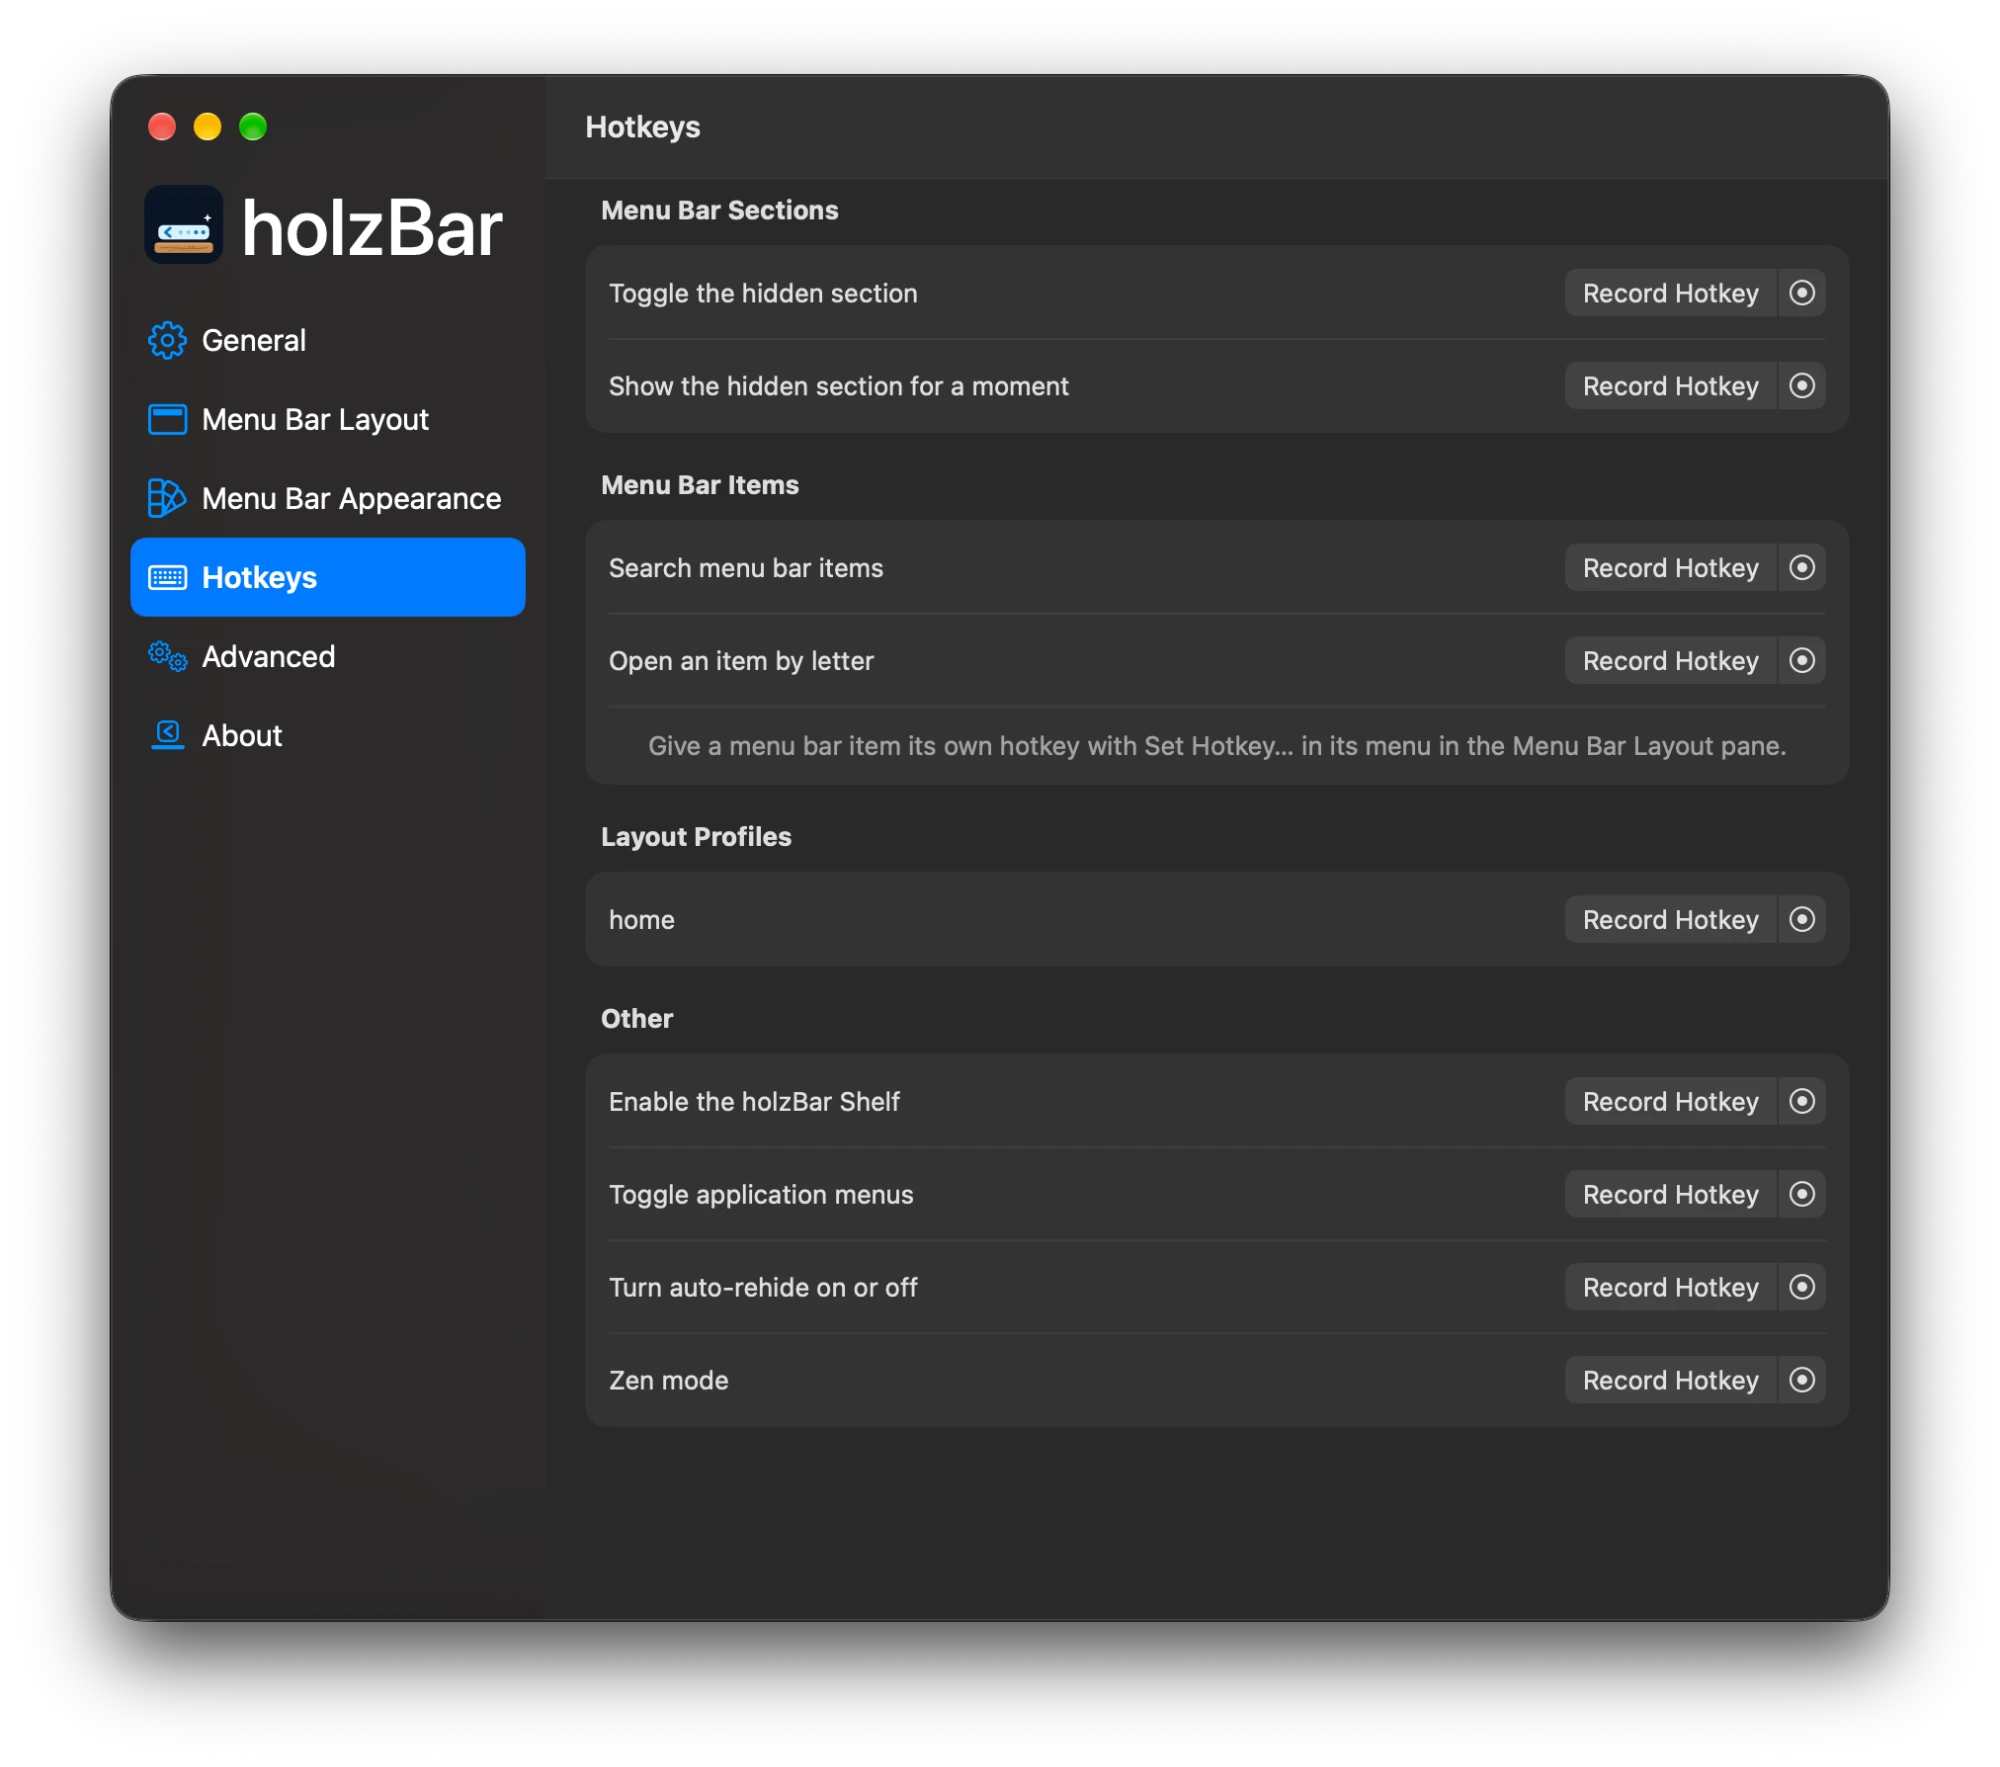
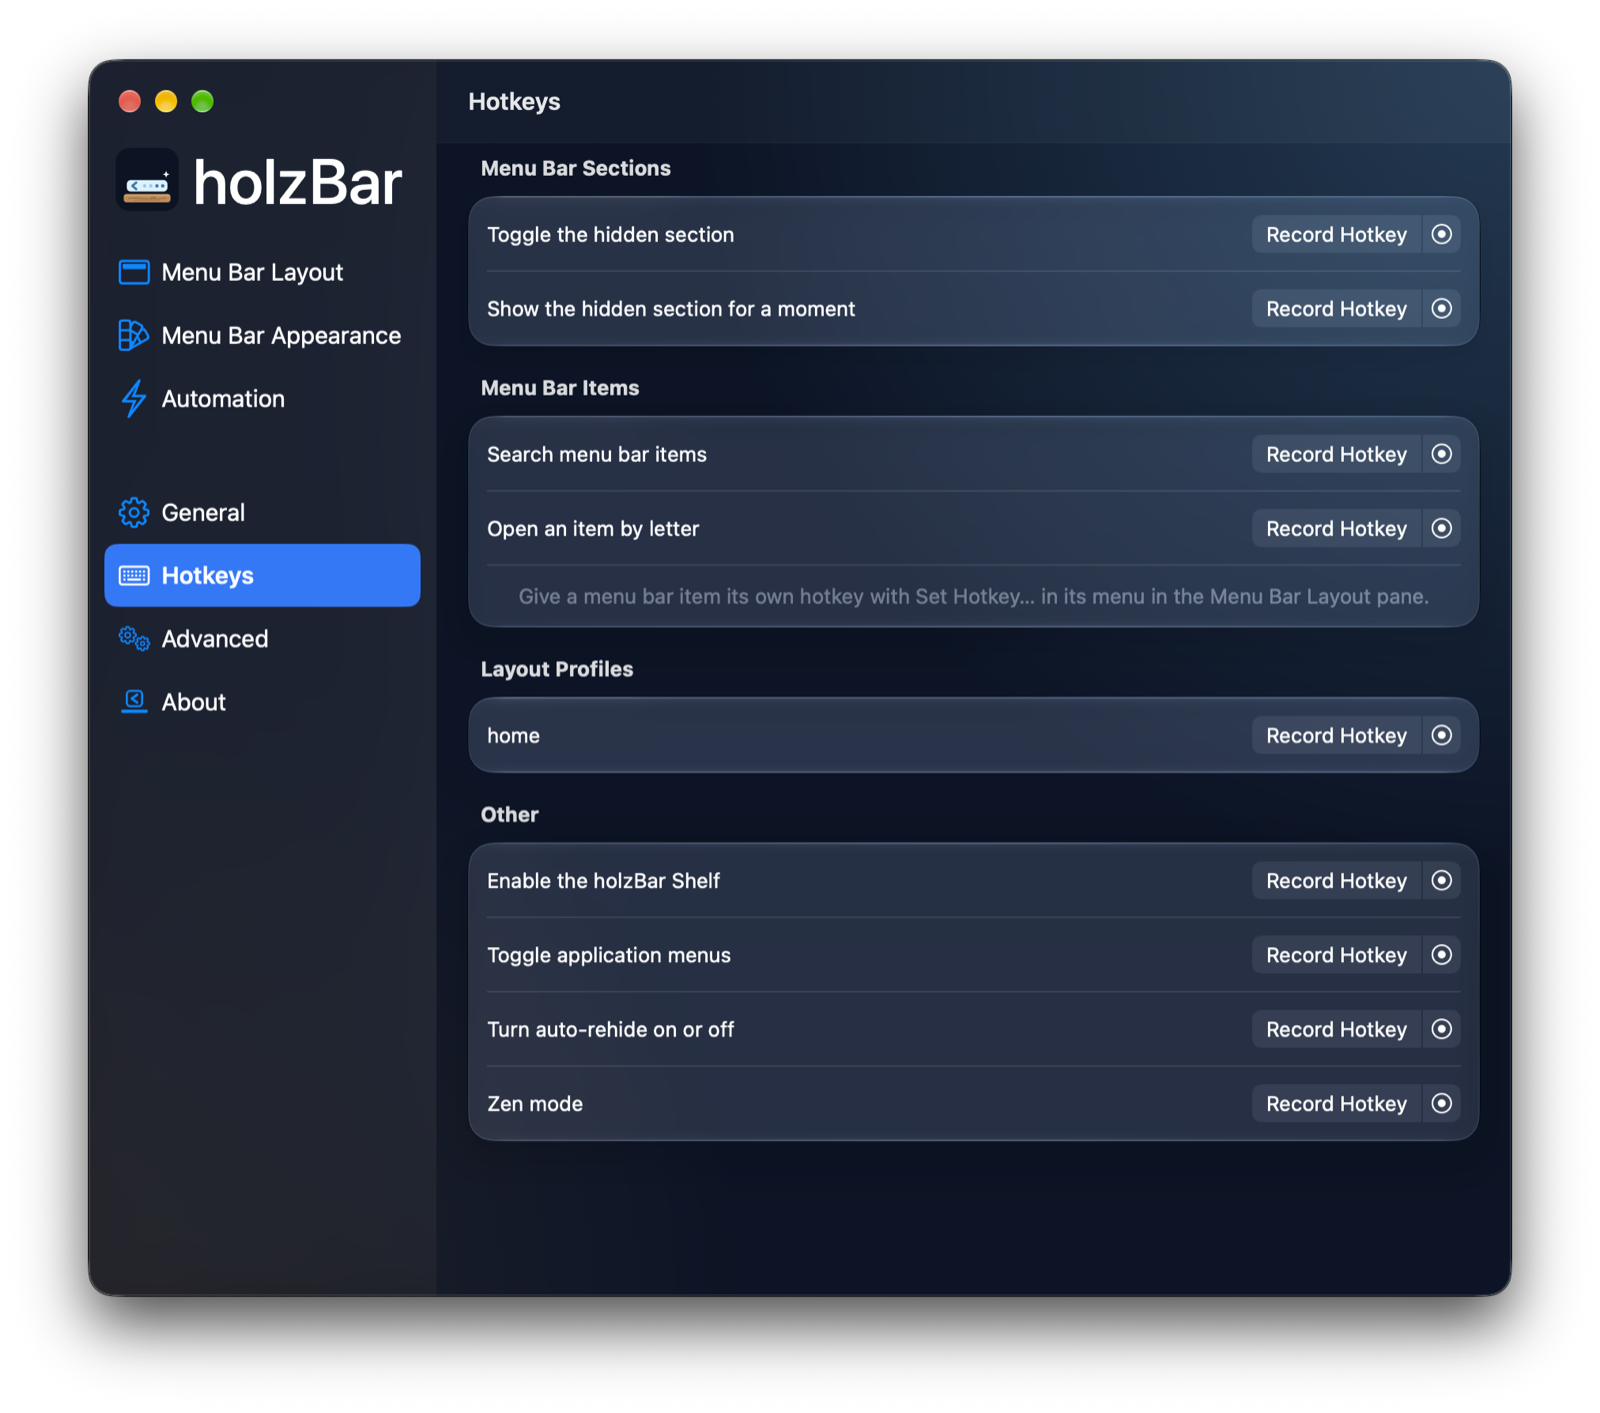
docs: screenshots of the redesigned holzBar (0.0.8-beta3)
The Shelf, General, Menu Bar Layout (with the Widgets preview), Menu Bar
Appearance, Hotkeys, Advanced and the spacing pane are replaced with captures
of 0.0.8-beta3. The menu, the collapsed menu bar and the Screen Recording
screenshots stay as they were.

Claude-Session: https://claude.ai/code/session_01G7FwPuLp16GcppQWv5oSyb

diff --git a/docs/features.md b/docs/features.md
@@ -195,17 +195,17 @@ The "holzBar vs. Ice and Thaw" table above marks these with 🔜 and the release
 </tr>
 <tr>
 <td width="50%" valign="top"><b>Menu</b> — right-click the dot for settings, search, Zen mode and updates<br><img src="../Resources/Screenshots/menu.png" alt="holzBar's menu: holzBar Settings…, Search Menu Bar Items, Show Hidden Section, Zen Mode, How to Update…, Quit holzBar"></td>
-<td width="50%" valign="top"><b>Rehide and spacing</b> — automatic rehide and item spacing <sub>BETA</sub><br><img src="../Resources/Screenshots/settings-spacing.png" alt="holzBar settings, General pane further down: the holzBar Shelf on all displays and items covered by the notch, show on click, hover or scroll, automatically rehide with the Smart strategy, the menu bar item spacing slider marked BETA, and on macOS 27 the note that the camera and microphone indicator is hidden"></td>
+<td width="50%" valign="top"><b>Rehide and spacing</b> — automatic rehide and item spacing <sub>BETA</sub><br><img src="../Resources/Screenshots/settings-spacing.png" alt="holzBar settings, General pane further down: items covered by the notch, show on click, hover or scroll, automatic rehide with the Smart strategy, the menu bar item spacing slider marked BETA, and on macOS 27 the note that the camera and microphone indicator is hidden with the dot setting"></td>
 </tr>
 </table>
 
 <table>
 <tr>
-<td width="50%" valign="top"><b>Layout</b> — drag items into sections, with profiles, groups and spacers<br><img src="../Resources/Screenshots/settings-layout.png" alt="holzBar settings, Menu Bar Layout pane: the profile home with Apply and Bind, Save Current Layout…, groups with New Group…, spacers, and the Visible and Hidden sections with the menu bar items"></td>
-<td width="50%" valign="top"><b>Appearance</b> — tint, shadow, border, shapes, a black bar and rounded screen corners<br><img src="../Resources/Screenshots/settings-appearance.png" alt="holzBar settings, Menu Bar Appearance pane: Dynamic appearance, Tint, Shadow, Border, Shape Kind, Black menu bar and Round the screen corners"></td>
+<td width="50%" valign="top"><b>Layout</b> — drag items into sections, with profiles, groups, spacers and widgets <sub>Preview</sub><br><img src="../Resources/Screenshots/settings-layout.png" alt="holzBar settings, Menu Bar Layout pane: layout snapshots, groups with New Group…, spacers, the Widgets module with a CPU load and a free disk space widget (Preview), and the Visible and Hidden sections with the menu bar items"></td>
+<td width="50%" valign="top"><b>Appearance</b> — tint, shadow, border, shapes, a black bar and rounded screen corners<br><img src="../Resources/Screenshots/settings-appearance.png" alt="holzBar settings, Menu Bar Appearance pane: dynamic appearance, Tint, Shadow, Border, Shape Kind, Black menu bar and Round the screen corners"></td>
 </tr>
 <tr>
-<td width="50%" valign="top"><b>Hotkeys</b> — a shortcut for every frequent action, profile and item<br><img src="../Resources/Screenshots/settings-hotkeys.png" alt="holzBar settings, Hotkeys pane: hotkeys for the hidden section, the search, opening an item by letter, the layout profile home, the holzBar Shelf, app menus, auto-rehide and Zen mode, each with Record Hotkey"></td>
-<td width="50%" valign="top"><b>Advanced</b> — new items, delays, Zen mode and settings backup<br><img src="../Resources/Screenshots/settings-advanced.png" alt="holzBar settings, Advanced pane: the always-hidden section, where new items go, the secondary context menu, the hover delay, hiding opened items again after 15 seconds, opening hidden items in the menu bar, Zen mode while the screen is shared, showing hidden items when the battery is low or the network is lost, and settings Export… and Import…"></td>
+<td width="50%" valign="top"><b>Hotkeys</b> — a shortcut for every frequent action, profile and item<br><img src="../Resources/Screenshots/settings-hotkeys.png" alt="holzBar settings, Hotkeys pane: hotkeys for the hidden section, the search, opening an item by letter, the layout profile, the holzBar Shelf, app menus, auto-rehide and Zen mode, each with Record Hotkey"></td>
+<td width="50%" valign="top"><b>Advanced</b> — new items, delays, Zen mode, Touch ID lock and settings backup<br><img src="../Resources/Screenshots/settings-advanced.png" alt="holzBar settings, Advanced pane: where new items go, the secondary context menu, the hover delay, hiding opened items again after 15 seconds, opening hidden items in the menu bar, Zen mode while the screen is shared, Touch ID or password before showing hidden items, settings Export… and Import…, and the permissions"></td>
 </tr>
 </table>
